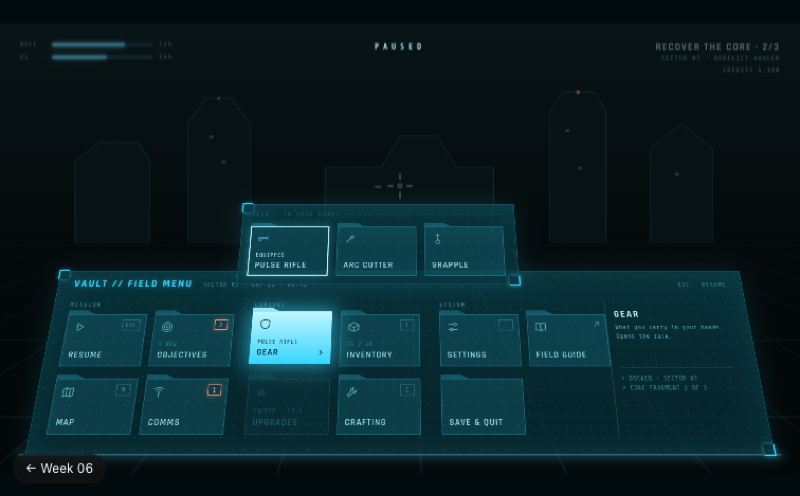
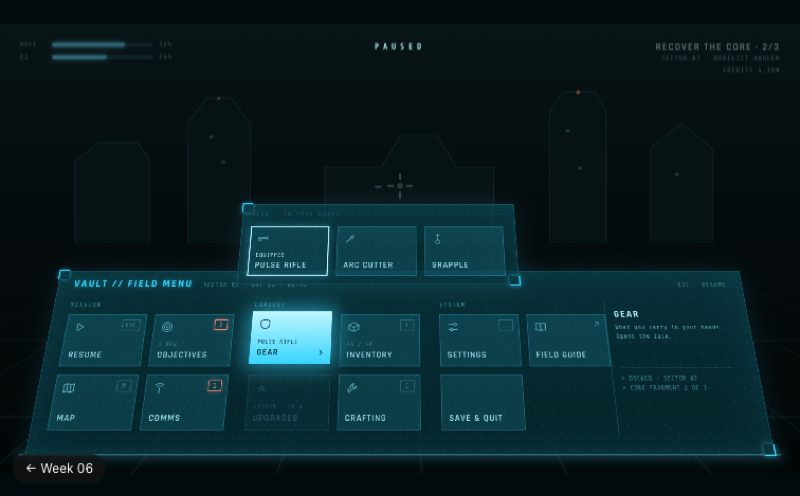
Week 06 Set 1 Vault: tiles are plain boxes, no folder tab
Claude-Session: https://claude.ai/code/session_01NJxmaEWhDanH1Md96UKkh6

diff --git a/week-06/week-06.html b/week-06/week-06.html
@@ -614,8 +614,8 @@
       <div class="set-grid">
         <div class="set-box" id="set-1">
           <button type="button" class="set-card" aria-haspopup="dialog" aria-controls="dlg-1">
-            <span class="set-thumbs" aria-hidden="true"><img src="images/process/vault-menu-1.png?v=6" alt="" loading="lazy" /><img src="images/process/vault-system-1.png?v=6" alt="" loading="lazy" /></span>
-            <span class="set-head"><span class="set-num">Set 1</span><span class="set-name">Vault</span><span class="set-line">Futuristic. The field menu of a sci-fi salvage game, after a holographic file database: a board of glass rises out of a line of light to fill the bottom half of the play screen, and its items, folder-shaped tiles in sections, are stacked onto it one at a time.</span></span>
+            <span class="set-thumbs" aria-hidden="true"><img src="images/process/vault-menu-1.png?v=7" alt="" loading="lazy" /><img src="images/process/vault-system-1.png?v=7" alt="" loading="lazy" /></span>
+            <span class="set-head"><span class="set-num">Set 1</span><span class="set-name">Vault</span><span class="set-line">Futuristic. The field menu of a sci-fi salvage game, after a holographic file database: a board of glass rises out of a line of light to fill the bottom half of the play screen, and its items, plain tiles in sections, are stacked onto it one at a time.</span></span>
             <span class="set-open" aria-hidden="true"></span>
           </button>
           <dialog class="set-dialog" id="dlg-1" aria-labelledby="dlg-1-title">
@@ -627,19 +627,19 @@
               <h4>Prototypes</h4>
               <div class="proto-grid">
                 <figure class="proto">
-                  <iframe src="week-06-vault-system.html?v=3" title="Vault menu system: every item configuration in enabled, hover and pressed, with its spec" loading="lazy"></iframe>
+                  <iframe src="week-06-vault-system.html?v=4" title="Vault menu system: every item configuration in enabled, hover and pressed, with its spec" loading="lazy"></iframe>
                   <figcaption>
                     <b>Menu system</b>
                     <span>One tile build in every configuration, laid flat to read: label only, left icon, key, badge, right icon, a note line, a submenu tile and a tile in the submenu, unavailable, and a section. Enabled, hover, pressed, and open or chosen. The spec follows.</span>
-                    <button type="button" class="viewer-open" data-src="week-06-vault-system.html?v=3">View larger</button>
+                    <button type="button" class="viewer-open" data-src="week-06-vault-system.html?v=4">View larger</button>
                   </figcaption>
                 </figure>
                 <figure class="proto">
-                  <iframe src="week-06-vault-menu.html?v=3" title="Vault in use: a holographic file database" loading="lazy"></iframe>
+                  <iframe src="week-06-vault-menu.html?v=4" title="Vault in use: a holographic file database" loading="lazy"></iframe>
                   <figcaption>
                     <b>In use</b>
                     <span>In play the menu is shut: a MENU prompt at the foot of the screen. Click it or press Tab: the play pauses, a line of light runs along the bottom and the glass rises out of it, then the tiles are stacked on, left to right, each landing with a flash. Point at a tile and it lifts; press it and it lights through. Gear opens a smaller board stacked above. Arrows move between tiles; Esc, Resume or a click on the play lifts the tiles off, right to left, and folds the glass away. The spec follows.</span>
-                    <button type="button" class="viewer-open" data-src="week-06-vault-menu.html?v=3">View larger</button>
+                    <button type="button" class="viewer-open" data-src="week-06-vault-menu.html?v=4">View larger</button>
                   </figcaption>
                 </figure>
               </div>
@@ -650,12 +650,12 @@
                 <figure><img src="images/process/seance-menu-1.png" alt="S&eacute;ance, a horror game&rsquo;s menu on a spirit board" loading="lazy" /><figcaption>S&eacute;ance: a horror game on a spirit board.</figcaption></figure>
                 <figure><img src="images/process/harvest-menu-1.png" alt="Harvest, a pixel farming game&rsquo;s menu" loading="lazy" /><figcaption>Harvest: a pixel farm, moving in steps.</figcaption></figure>
                 <figure><img src="images/process/ledger-menu-1.png" alt="Ledger, a finance app&rsquo;s Move money menu" loading="lazy" /><figcaption>Ledger: a finance app, smooth springs.</figcaption></figure>
-                <figure><img src="images/process/vault-menu-0.png?v=6" alt="Vault, the menu shut" loading="lazy" /><figcaption>Vault, shut: the play, with only the MENU prompt.</figcaption></figure>
-                <figure><img src="images/process/vault-menu-1.png?v=6" alt="Vault, the menu and its submenu open" loading="lazy" /><figcaption>Vault, open: the board over the bottom half, Gear&rsquo;s rack stacked above it.</figcaption></figure>
+                <figure><img src="images/process/vault-menu-0.png?v=7" alt="Vault, the menu shut" loading="lazy" /><figcaption>Vault, shut: the play, with only the MENU prompt.</figcaption></figure>
+                <figure><img src="images/process/vault-menu-1.png?v=7" alt="Vault, the menu and its submenu open" loading="lazy" /><figcaption>Vault, open: the board over the bottom half, Gear&rsquo;s rack stacked above it.</figcaption></figure>
               </div>
               <p class="process-label">Menu system</p>
               <div class="process-grid">
-                <figure><img src="images/process/vault-system-1.png?v=6" alt="Vault menu system" loading="lazy" /><figcaption>Every configuration in three states.</figcaption></figure>
+                <figure><img src="images/process/vault-system-1.png?v=7" alt="Vault menu system" loading="lazy" /><figcaption>Every configuration in three states.</figcaption></figure>
               </div>
             </div>
           </dialog>

diff --git a/week-06/week-06-vault.css b/week-06/week-06-vault.css
@@ -30,7 +30,6 @@
   /* the board and its tile */
   --board-tilt: 30deg;       /* the board leans back, like the reference's sheet of glass */
   --tile-w: 136px; --tile-h: 92px; --tile-gap: 14px; --tile-pad: 12px;
-  --tab-w: 46px; --tab-h: 7px;     /* the folder tab on each tile */
   --icon: 22px; --icon-stroke: 1.4;
   --label-size: 15px; --track: .08em;
   --section-gap: 34px;
@@ -62,17 +61,16 @@
 /* a section: its label and a dotted rule, then its tiles in a grid */
 .t-sect { display: flex; align-items: center; gap: 10px; margin: 0 0 12px; font: 400 11px/1 var(--mono); letter-spacing: .16em; color: var(--ink-3); text-transform: uppercase; }
 .t-sect::after { content: ""; flex: 1; height: 1px; background: repeating-linear-gradient(90deg, var(--line) 0 6px, transparent 6px 10px); }
-.t-grid { display: grid; grid-template-columns: repeat(var(--cols, 2), var(--tile-w)); gap: calc(var(--tile-gap) + var(--tab-h)) var(--tile-gap); transform-style: preserve-3d; }
+.t-grid { display: grid; grid-template-columns: repeat(var(--cols, 2), var(--tile-w)); gap: var(--tile-gap); transform-style: preserve-3d; }
 
 /* ---------- one tile, every configuration ---------- */
-/* a menu item is a folder-shaped tile: icon top left, what is on its right top right, the label at
+/* a menu item is a plain box, a tile: icon top left, what is on its right top right, the label at
    the foot, a note above the label, and a chevron at the foot's right when it opens a submenu */
 .tile { position: relative; display: block; width: var(--tile-w); height: var(--tile-h); margin: 0; padding: 0; border: 0; cursor: pointer; text-align: left; color: var(--ink);
   background: rgba(57, 213, 255, .13); box-shadow: inset 0 0 0 1px rgba(57, 213, 255, .4);
   font: 600 var(--label-size)/1 var(--font); letter-spacing: var(--track); text-transform: uppercase;
   transform: translateZ(0); transform-style: preserve-3d;
   transition: transform var(--hover-time) var(--ease-out), background-color var(--hover-time) var(--ease-out), box-shadow var(--hover-time) var(--ease-out), color var(--hover-time) var(--ease-out); }
-.tile::before { content: ""; position: absolute; left: 0; bottom: 100%; width: var(--tab-w); height: var(--tab-h); background: rgba(57, 213, 255, .26); clip-path: polygon(0 0, 72% 0, 100% 100%, 0 100%); transition: background-color var(--hover-time); }
 .tile:focus-visible { outline: none; }
 .t-ico { position: absolute; left: var(--tile-pad); top: var(--tile-pad); width: var(--icon); height: var(--icon); color: var(--ink-2); transition: color var(--hover-time); }
 .t-ico * { stroke-width: var(--icon-stroke); }
@@ -85,7 +83,6 @@
 /* hover: the tile lifts off the glass and fills with light */
 .tile:hover, .tile:focus-visible, .tile.is-hover { transform: translateZ(var(--lift)); background: rgba(57, 213, 255, .3); color: var(--cyan-hi);
   box-shadow: inset 0 0 0 1px var(--cyan), 0 0 26px rgba(57, 213, 255, .45); }
-.tile:hover::before, .tile:focus-visible::before, .tile.is-hover::before { background: rgba(57, 213, 255, .5); }
 .tile:hover .t-ico, .tile:focus-visible .t-ico, .tile.is-hover .t-ico, .tile:hover .t-end, .tile.is-hover .t-end, .tile:hover .t-more, .tile.is-hover .t-more { color: var(--cyan-hi); }
 .tile:hover .t-key, .tile:focus-visible .t-key, .tile.is-hover .t-key { color: var(--cyan); border-color: var(--cyan); }
 .tile:hover .t-more, .tile.is-hover .t-more { translate: 3px 0; }
@@ -93,14 +90,12 @@
 .tile:active, .tile.is-press, .tile[aria-expanded="true"] { background: linear-gradient(#bff6ff, #39d5ff); color: #04232b; box-shadow: 0 0 34px 6px rgba(57, 213, 255, .6); }
 .tile:active, .tile.is-press { transform: translateZ(3px); }
 .tile[aria-expanded="true"] { transform: translateZ(var(--lift)); }
-.tile:active::before, .tile.is-press::before, .tile[aria-expanded="true"]::before { background: #8fe9ff; }
 .tile:active .t-ico, .tile.is-press .t-ico, .tile[aria-expanded="true"] .t-ico, .tile:active .t-key, .tile.is-press .t-key, .tile[aria-expanded="true"] .t-more, .tile:active .t-more, .tile.is-press .t-more, .tile:active .t-note, .tile.is-press .t-note, .tile[aria-expanded="true"] .t-note, .tile:active .t-end, .tile.is-press .t-end { color: #04232b; border-color: #04232b; }
 /* chosen, in a submenu */
 .tile[aria-checked="true"] { box-shadow: inset 0 0 0 2px var(--cyan-hi), 0 0 18px rgba(57, 213, 255, .4); }
 .tile[aria-checked="true"] .t-note { color: var(--cyan-hi); }
 /* unavailable: kept in place, an outline of dashes, never lifts */
 .tile[aria-disabled="true"] { cursor: default; color: var(--ink-off); background: rgba(57, 213, 255, .03); box-shadow: none; outline: 1px dashed rgba(95, 179, 196, .35); outline-offset: -1px; transform: translateZ(0); }
-.tile[aria-disabled="true"]::before { background: rgba(57, 213, 255, .08); }
 .tile[aria-disabled="true"] .t-ico, .tile[aria-disabled="true"] .t-note, .tile[aria-disabled="true"] .t-key { color: var(--ink-off); border-color: rgba(95, 179, 196, .2); }
 .tile.is-no { animation: deny 360ms var(--ease-out); }
 @keyframes deny { 30% { outline-color: var(--alert); color: var(--alert); translate: -4px 0; } 60% { translate: 3px 0; } }

diff --git a/week-06/week-06-vault-system.html b/week-06/week-06-vault-system.html
@@ -5,7 +5,7 @@
   <meta name="viewport" content="width=device-width, initial-scale=1" />
   <title>Week 06 · Set 1 · Vault · Menu system</title>
   <link rel="icon" href="../shared/favicon.svg" type="image/svg+xml" />
-  <link rel="stylesheet" href="week-06-vault.css?v=3" />
+  <link rel="stylesheet" href="week-06-vault.css?v=4" />
   <style>
   /* Menu system: one tile build, every configuration the brief asks for, each in its states, laid
      flat so it can be read. The Enabled column is live; the others hold the states still, to
@@ -116,6 +116,6 @@
     addEventListener('resize', fit); fit(); document.fonts?.ready.then(fit);
     if (window.self === window.top) document.querySelector('.back-pill').removeAttribute('hidden');
   </script>
-  <script src="week-06-vault-spec.js?v=3"></script>
+  <script src="week-06-vault-spec.js?v=4"></script>
 </body>
 </html>

diff --git a/week-06/week-06-vault-menu.html b/week-06/week-06-vault-menu.html
@@ -5,7 +5,7 @@
   <meta name="viewport" content="width=device-width, initial-scale=1" />
   <title>Week 06 · Set 1 · Vault · In use</title>
   <link rel="icon" href="../shared/favicon.svg" type="image/svg+xml" />
-  <link rel="stylesheet" href="week-06-vault.css?v=3" />
+  <link rel="stylesheet" href="week-06-vault.css?v=4" />
   <style>
   /* In use: VAULT, a salvage game played on a derelict station. In play, the menu is shut: only a
      MENU prompt sits at the foot of the screen. Opened (the prompt, or Tab), the play pauses and a
@@ -303,6 +303,6 @@
       if (window.self === window.top) document.querySelector('.back-pill').removeAttribute('hidden');
     })();
   </script>
-  <script src="week-06-vault-spec.js?v=3"></script>
+  <script src="week-06-vault-spec.js?v=4"></script>
 </body>
 </html>

diff --git a/week-06/week-06-vault-spec.js b/week-06/week-06-vault-spec.js
@@ -45,9 +45,9 @@
     ]],
     ['Tile', [
       ['Size', `${px(el('tile').offsetWidth)} × ${px(el('tile').offsetHeight)}`],
-      ['Folder tab', `${tok('--tab-w')} × ${tok('--tab-h')}, on top left`],
+      ['Shape', 'a plain box, square corners'],
       ['Padding', tok('--tile-pad')],
-      ['Gap', `${tok('--tile-gap')} across, ${px(cs('grid').rowGap)} down (clears the tab)`],
+      ['Gap', `${tok('--tile-gap')} each way`],
       ['Fill', sw(tile.backgroundColor)],
       ['Label', `${fam(tile.fontFamily)} ${tile.fontWeight}, ${px(tile.fontSize)}, capitals, ${px(tile.letterSpacing)}`],
     ]],
